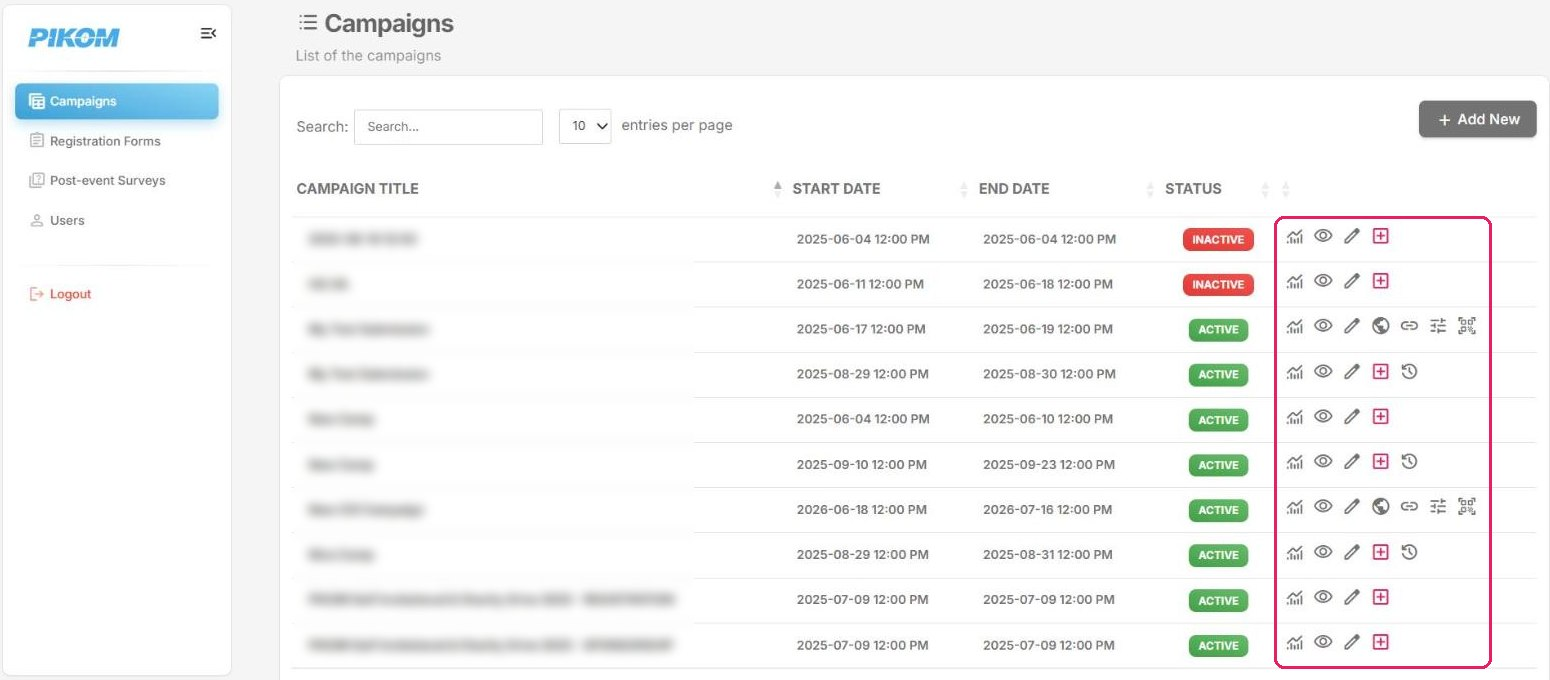
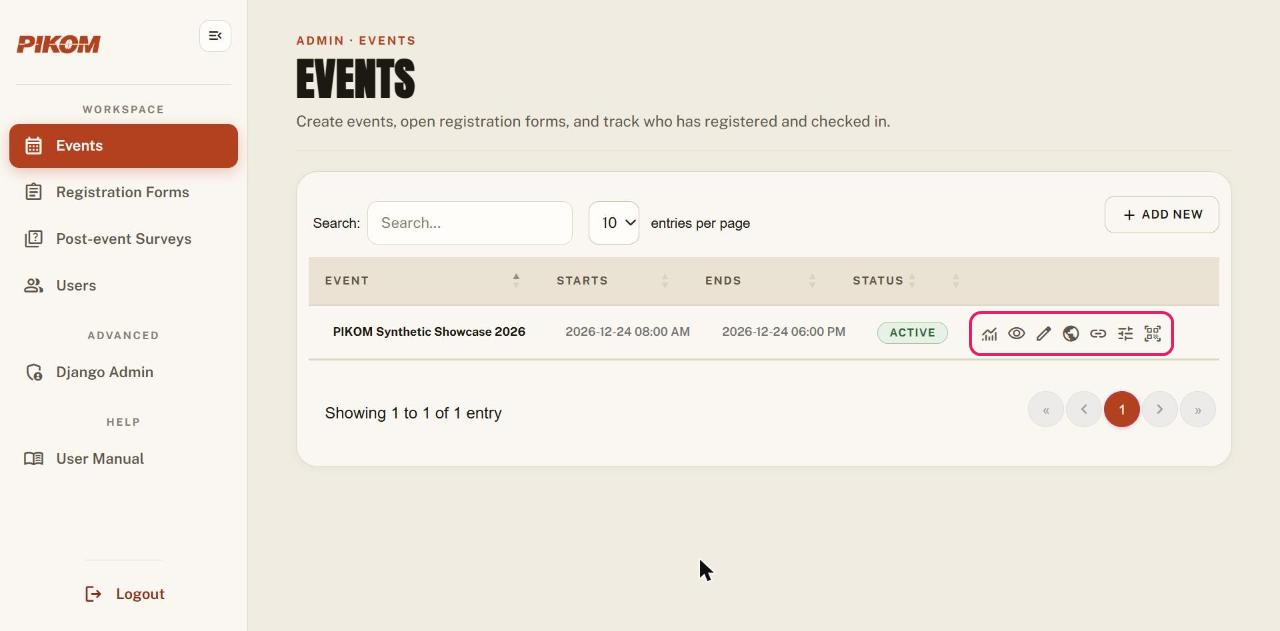
Update user manual sections 4-9 and screenshots for the new admin
Rework the registration form, Form Builder, clone, go-live, checklist
and troubleshooting sections to use "event" wording and match the
current screens (report icon, choice reordering arrows, shared event
details, new public form layout, dashboard shortcuts).

Recapture the manual screenshots from the redesigned admin using the
synthetic showcase data, and drop the outdated team-picker image.

diff --git a/register/templates/register/user_manual.html b/register/templates/register/user_manual.html
@@ -269,10 +269,6 @@
           <strong>Venue and event time</strong> are not in this dialog. Set them in Form Builder under the event
           details (Part C). Until then the dashboard shows <em>Add venue</em> and <em>Add event time</em>.
         </div>
-        <figure class="manual-fig">
-          <img src="{% static 'register/manual/a4_team.jpg' %}" class="border-radius-lg shadow-sm" alt="Choosing the event team">
-          <figcaption>Campaign Team — click the box and choose the users who will run this event.</figcaption>
-        </figure>
 
         <h6 class="manual-step"><span class="step-pill">Step A4</span>Check the dialog, then Save</h6>
         <p>Compare your entries against the example below, then press <strong>Save</strong>. The dialog closes and the
@@ -280,7 +276,7 @@
           field is outlined in red with a message underneath, and nothing is saved until you fix it.</p>
         <figure class="manual-fig">
           <img src="{% static 'register/manual/a5_add_campaign_filled.jpg' %}" class="border-radius-lg shadow-sm" alt="A completed Create event dialog">
-          <figcaption>A completed Create event dialog, ready to save.</figcaption>
+          <figcaption>The bottom of a completed Create event dialog, ready to save.</figcaption>
         </figure>
 
         <h6 class="manual-step"><span class="step-pill">Step A5</span>Know the row icons</h6>
@@ -309,8 +305,8 @@
               <tr><td class="k">Link</td><td><strong>Copy registration link</strong> — copies the public URL to your clipboard.</td></tr>
               <tr><td class="k">Sliders</td><td><strong>Build / edit form</strong> — opens Form Builder (Part C).</td></tr>
               <tr><td class="k">QR scanner</td><td><strong>Check-in scanner</strong> — the on-site scanning page for phones and Sunmi devices.</td></tr>
-              <tr><td class="k">Plus box</td><td>Shown <em>instead</em> of the four form icons when no form exists yet: <strong>“No registration form yet — click to create one”</strong>. It jumps straight to Part B with this campaign pre-selected.</td></tr>
-              <tr><td class="k">Clock</td><td>Legacy entry form, for older campaigns that still use one.</td></tr>
+              <tr><td class="k">Plus box</td><td>Shown <em>instead</em> of the four form icons when no form exists yet: <strong>“No registration form yet — click to create one”</strong>. It jumps straight to Part B with this event pre-selected.</td></tr>
+              <tr><td class="k">Clock</td><td>Legacy entry form, for older events that still use one.</td></tr>
             </tbody>
           </table>
 
@@ -346,15 +342,15 @@
 
         <h6 class="manual-step"><span class="step-pill">Step B1</span>Open Registration Forms</h6>
         <p>Click <strong>Registration Forms</strong> in the left menu — or click the <strong>plus-box</strong> icon on
-          a campaign row, which opens this page with that campaign already selected for you.</p>
+          an event row, which opens this page with that event already selected for you.</p>
         <figure class="manual-fig">
           <img src="{% static 'register/manual/b1_form_list.jpg' %}" class="border-radius-lg shadow-sm" alt="The Registration Forms list">
           <figcaption>The Registration Forms list.</figcaption>
         </figure>
 
         <h6 class="manual-step"><span class="step-pill">Step B2</span>Click + New Registration Form and fill it in</h6>
-        <p>The <strong>Add New Registration Form</strong> dialog opens. Nothing is saved until you press
-          <strong>Save</strong>.</p>
+        <p>Click <strong>+ New Registration Form</strong> at the top right. The <strong>Add New Registration
+          Form</strong> dialog opens. Nothing is saved until you press <strong>Save</strong>.</p>
           <table class="table align-items-center mb-0 manual-table">
             <thead>
               <tr>
@@ -367,7 +363,7 @@
               <tr><td class="k">Public URL (optional)</td><td>The readable part of the public address. Lowercase letters, numbers and hyphens only. Leave it blank and one is generated from the title. It must be unique — if another form already uses it, saving fails with a message telling you so.</td></tr>
               <tr><td class="k">Survey Start Date / Survey End Date</td><td>The window in which the public form accepts entries. Outside it, visitors see the “registration closed” wording.</td></tr>
               <tr><td class="k">Survey Description</td><td>Rich text shown to registrants under the title — venue, closing date, who to contact. The small toolbar handles bold, headings, lists and links.</td></tr>
-              <tr><td class="k">Select Campaign</td><td>The campaign this form belongs to. Pick it here: the event details and email wording in Form Builder depend on it. The list only offers campaigns you are allowed to manage.</td></tr>
+              <tr><td class="k">Select Campaign</td><td>The event this form belongs to. Pick it here: the event details and email wording in Form Builder depend on it. The list only offers events you are allowed to manage.</td></tr>
               <tr><td class="k">Active or Inactive the Survey</td><td>Leave on so the form can be opened.</td></tr>
             </tbody>
           </table>
@@ -426,8 +422,8 @@
               <tr><td class="k">Globe</td><td><strong>Open public registration form</strong> — the live page.</td></tr>
               <tr><td class="k">Link</td><td><strong>Copy public link</strong>.</td></tr>
               <tr><td class="k">QR scanner</td><td><strong>Check-in scanner</strong> for the event day.</td></tr>
-              <tr><td class="k">Clock face</td><td><strong>Consolidated report</strong> of the responses.</td></tr>
-              <tr><td class="k">Copy</td><td><strong>Clone form</strong> — copy its questions into another campaign. The fastest way to run this year’s event off last year’s form.</td></tr>
+              <tr><td class="k">Exclamation mark</td><td><strong>Consolidated report</strong> of the responses.</td></tr>
+              <tr><td class="k">Copy</td><td><strong>Clone form</strong> — copy its questions into another event. The fastest way to run this year’s event off last year’s form.</td></tr>
               <tr><td class="k">Red bin</td><td><strong>Delete form</strong>. Irreversible — check the registration count first.</td></tr>
             </tbody>
           </table>
@@ -457,7 +453,7 @@
           of the public form as well.</p>
           <table class="table align-items-center mb-0 manual-table">
             <tbody>
-              <tr><td class="k">Date</td><td>Read-only. Taken from the campaign’s end date. To change it, edit the campaign.</td></tr>
+              <tr><td class="k">Date</td><td>Read-only. Taken from the event’s end date. To change it, edit the event (Part A).</td></tr>
               <tr><td class="k">Time</td><td>Free text, e.g. <code>10.00 am – 1.00 pm</code>.</td></tr>
               <tr><td class="k">Venue</td><td>Free text, multiple lines allowed.</td></tr>
               <tr><td class="k">Dress code</td><td>Free text.</td></tr>
@@ -466,14 +462,16 @@
             </tbody>
           </table>
         <p class="mt-2">Press <strong>Save event details</strong> when done — this block has its own save button.
-          Event details apply to the whole campaign, so every form on that campaign shares them.</p>
+          Event details apply to the whole event, so every form on that event shares them. The time and venue you
+          enter here are also what the event dashboard and the attendee app show.</p>
         <figure class="manual-fig">
           <img src="{% static 'register/manual/b5_event_details.jpg' %}" class="border-radius-lg shadow-sm" alt="Event details block">
           <figcaption>Event details, with the additional info rows at the bottom.</figcaption>
         </figure>
 
         <h6 class="manual-sub">Email content</h6>
-        <p>Four tabs, one per message: <strong>Thank-you</strong> (sent on submission),
+        <p>This block is also shared by every form on the event. Four tabs, one per message:
+          <strong>Thank-you</strong> (sent on submission),
           <strong>QR confirmation</strong>, <strong>Attendance reminder</strong> and
           <strong>Registration closed</strong>. For each you can write a subject line and the body.</p>
         <ul>
@@ -486,12 +484,13 @@
         </ul>
         <figure class="manual-fig">
           <img src="{% static 'register/manual/b6_email.jpg' %}" class="border-radius-lg shadow-sm" alt="Email content block">
-          <figcaption>The Thank-you tab: subject line, placeholder buttons, body, and the two switches.</figcaption>
+          <figcaption>The Thank-you tab: subject line, placeholder buttons and the start of the body. The two switches, Sign-off and <strong>Save email content</strong> sit below the body.</figcaption>
         </figure>
 
         <h6 class="manual-sub">Form fields</h6>
-        <p>The question list. Each row shows its number, its type, a <em>Required</em> tag, a <em>List col</em> tag
-          when the answer is shown as a column in the registrations list, and the question text.</p>
+        <p>The question list. Each row shows its number, its type (identity fields show <em>Identity</em> and a
+          padlock), a <em>Required</em> tag, a <em>List col</em> tag when the answer is shown as a column in the
+          registrations list, and the question text.</p>
         <figure class="manual-fig">
           <img src="{% static 'register/manual/b8_fields.jpg' %}" class="border-radius-lg shadow-sm" alt="Form Fields block">
           <figcaption>The Form Fields block. Identity fields carry a padlock.</figcaption>
@@ -506,7 +505,7 @@
         <p>Click <strong>+ Add Question</strong> at the top right of the Form Fields block.</p>
         <figure class="manual-fig">
           <img src="{% static 'register/manual/b9_question_top.jpg' %}" class="border-radius-lg shadow-sm" alt="The Add Question dialog">
-          <figcaption>The Add Question dialog, set to Single choice with three options.</figcaption>
+          <figcaption>The top of the Add Question dialog, set to Single choice.</figcaption>
         </figure>
           <table class="table align-items-center mb-0 manual-table">
             <thead>
@@ -522,7 +521,7 @@
               <tr><td class="k">Required</td><td>On = the registrant cannot submit without answering.</td></tr>
               <tr><td class="k">Show in list</td><td>On = the answer becomes a column in the registrations list. Use it for the handful of answers your team sorts and filters on, not for everything.</td></tr>
               <tr><td class="k">Column header for the registrations list</td><td>Short label for that column, up to 60 characters. Blank = the question text, truncated. Only used when <em>Show in list</em> is on.</td></tr>
-              <tr><td class="k">Choices</td><td>Shown for Dropdown, Single choice and Multiple choice. One row per option; <strong>+ Add choice</strong> adds more, the drag handle reorders, the red button removes. <em>Add follow-up text</em> attaches a free-text box to a specific option — useful for “Other, please specify”.</td></tr>
+              <tr><td class="k">Choices</td><td>Shown for Dropdown, Single choice and Multiple choice. One row per option; <strong>+ Add choice</strong> adds more, the drag handle or the up and down arrows reorder, the red <strong>×</strong> removes. <em>Add follow-up text</em> attaches a free-text box to a specific option — useful for “Other, please specify”.</td></tr>
               <tr><td class="k">Include an “Other” free-text input</td><td>Adds a catch-all “Other” option with its own text box.</td></tr>
               <tr><td class="k">Max selections</td><td>Multiple choice only. Caps how many boxes a registrant may tick; blank = no limit.</td></tr>
             </tbody>
@@ -531,7 +530,7 @@
           into position. <strong>Cancel</strong> discards it.</p>
         <figure class="manual-fig">
           <img src="{% static 'register/manual/b10_question_bottom.jpg' %}" class="border-radius-lg shadow-sm" alt="The bottom of the Add Question dialog">
-          <figcaption>The bottom of the Add Question dialog: choices, the “Other” option and Save Question.</figcaption>
+          <figcaption>The bottom of the Add Question dialog: three choices, the “Other” option and Save Question.</figcaption>
         </figure>
 
       </div>
@@ -542,7 +541,7 @@
       <div class="card-header pb-2"><h6 class="mb-0">6. Clone a form for a repeat event</h6></div>
       <div class="card-body pt-2">
         <p>When you run the same event again, don’t rebuild the form. Clone last year’s and point the copy at this
-          year’s campaign — every question comes across with its type, choices, required flags and
+          year’s event — every question comes across with its type, choices, required flags and
           <em>Show in list</em> settings. Registrations do not.</p>
 
         <h6 class="manual-step"><span class="step-pill">Step 1</span>Click the copy icon on the form’s row</h6>
@@ -553,7 +552,7 @@
           <figcaption>The <strong>Clone form</strong> icon, outlined here in pink.</figcaption>
         </figure>
 
-        <h6 class="manual-step"><span class="step-pill">Step 2</span>Name the copy and choose its campaign</h6>
+        <h6 class="manual-step"><span class="step-pill">Step 2</span>Name the copy and choose its event</h6>
         <figure class="manual-fig">
           <img src="{% static 'register/manual/c2_clone_modal.jpg' %}" class="border-radius-lg shadow-sm img-natural" alt="The Clone Form dialog">
           <figcaption>The Clone Form dialog. Both fields are required.</figcaption>
@@ -567,7 +566,7 @@
             </thead>
             <tbody>
               <tr><td class="k">New Form Title</td><td>Arrives pre-filled as <em>Copy of …</em>. Replace it with the real name for this year’s event — the copy’s public URL is generated from this title, so a clean title gives a clean link.</td></tr>
-              <tr><td class="k">Assign to Campaign</td><td>The campaign the copy belongs to — normally the new campaign you created for this year. Only campaigns you are allowed to manage are listed.</td></tr>
+              <tr><td class="k">Assign to Campaign</td><td>The event the copy belongs to — normally the new event you created for this year. Only events you are allowed to manage are listed.</td></tr>
             </tbody>
           </table>
         <p class="mt-2">Press <strong>Clone</strong>. The list reloads with the new form on it, ready to edit.
@@ -579,8 +578,8 @@
               year’s window. Click the pencil on the new row and set the new one.</li>
           <li><strong>The public URL.</strong> It is generated from the new title. Open Form Builder and check the
               link under <em>Shareable link</em> before you share it.</li>
-          <li><strong>Event details and email wording.</strong> These belong to the <em>campaign</em>, not the form,
-              so the copy shows whatever the new campaign holds — usually empty. Fill them in from Form Builder
+          <li><strong>Event details and email wording.</strong> These belong to the <em>event</em>, not the form,
+              so the copy shows whatever the new event holds — usually empty. Fill them in from Form Builder
               (Part C).</li>
         </ol>
 
@@ -601,8 +600,8 @@
                   on one form never touches the other.
                 </td>
                 <td>
-                  Registrations and their answers · QR and check-in state · the campaign’s event details and email
-                  wording, which live on the campaign rather than the form.
+                  Registrations and their answers · QR and check-in state · the event details and email
+                  wording, which live on the event rather than the form.
                 </td>
               </tr>
             </tbody>
@@ -626,26 +625,26 @@
           <li>Share the link from <strong>Copy</strong> — not a URL you typed by hand.</li>
         </ol>
         <figure class="manual-fig">
-          <img src="{% static 'register/manual/b11_public_top.jpg' %}" class="border-radius-lg shadow-sm" alt="The public form banner">
-          <figcaption>The public form opens with the banner image.</figcaption>
+          <img src="{% static 'register/manual/b11_public_top.jpg' %}" class="border-radius-lg shadow-sm" alt="The top of the public registration form">
+          <figcaption>The public form: the title, description and event details on the left, the questions on the right. When a banner is uploaded it appears at the top of the page.</figcaption>
         </figure>
         <figure class="manual-fig">
           <img src="{% static 'register/manual/b12_public_fields.jpg' %}" class="border-radius-lg shadow-sm" alt="The public form fields">
-          <figcaption>The fields as a registrant sees them — a red asterisk marks the required ones.</figcaption>
+          <figcaption>The fields as a registrant sees them — an asterisk (<strong>*</strong>) marks the required ones.</figcaption>
         </figure>
         <figure class="manual-fig">
           <img src="{% static 'register/manual/b13_public_submit.jpg' %}" class="border-radius-lg shadow-sm" alt="The Submit Registration button">
-          <figcaption>The end of the public form, with Submit Registration.</figcaption>
+          <figcaption>The end of the public form, with the <strong>Submit Registration</strong> button.</figcaption>
         </figure>
 
         <h6 class="manual-sub">Where registrations arrive</h6>
-        <p>Campaigns → <strong>eye</strong> icon (or Registration Forms → consolidated report). Each row is one
+        <p>Events → <strong>eye</strong> icon, or <strong>View attendees</strong> on the event dashboard. Each row is one
           registrant, with the registration number, approval status, check-in and QR state. Header counters summarise
           Total, Pending, Approved, Rejected, QR sent, Reminder and Checked in. From the toolbar you can register a
           walk-in, edit an entry, change status or participant type, and send QR codes or reminders.</p>
         <figure class="manual-fig">
           <img src="{% static 'register/manual/b14_reg_list.jpg' %}" class="border-radius-lg shadow-sm" alt="The registrations list">
-          <figcaption>The registrations list. Participant names and contact details are blurred in this manual only.</figcaption>
+          <figcaption>The registrations list, with the counters at the top right and the toolbar above the table.</figcaption>
         </figure>
       </div>
     </div>
@@ -655,14 +654,14 @@
       <div class="card-header pb-2"><h6 class="mb-0">8. Pre-launch checklist</h6></div>
       <div class="card-body pt-2">
         <ul>
-          <li>Campaign end date is the real event date — the emails read it from there.</li>
+          <li>The event’s end date is the real event date — the emails read it from there.</li>
           <li>‘Reply To’ email is a mailbox someone actually watches.</li>
-          <li>Everyone who needs access is on the Campaign Team.</li>
-          <li>The form is attached to the right campaign, and its start/end window is correct.</li>
-          <li>Banner uploaded; event details saved; the four emails read the way you want.</li>
+          <li>Everyone who needs access is on the event’s Campaign Team.</li>
+          <li>The form is attached to the right event, and its start/end window is correct.</li>
+          <li>Banner uploaded; event details (time, venue) saved; the four emails read the way you want.</li>
           <li>Required flags are right, and the answers your team works from have <em>Show in list</em> on.</li>
           <li>One test registration submitted, checked and removed.</li>
-          <li>Campaign is Active and the form is Active.</li>
+          <li>The event is active and the form is Active.</li>
         </ul>
       </div>
     </div>
@@ -680,14 +679,16 @@
             </thead>
             <tbody>
               <tr><td class="k">“This URL is already used by another form.”</td><td>The Public URL you typed is taken. Choose another, or leave it blank to auto-generate.</td></tr>
-              <tr><td class="k">Permission error opening Form Builder</td><td>You are not a superuser and not on that campaign’s team. Ask to be added.</td></tr>
-              <tr><td class="k">The campaign does not appear in Select Campaign</td><td>Same reason — the dropdown only lists campaigns you may manage.</td></tr>
-              <tr><td class="k">Wrong date in the emails</td><td>The date comes from the campaign’s <em>end</em> date. Edit the campaign, not the form.</td></tr>
+              <tr><td class="k">Permission error opening Form Builder</td><td>You are not a superuser and not on that event’s Campaign Team. Ask to be added.</td></tr>
+              <tr><td class="k">The event does not appear in Select Campaign</td><td>Same reason — the dropdown only lists events you may manage.</td></tr>
+              <tr><td class="k">No + Add New button or Edit pencil on Events</td><td>Your account is not allowed to create or change events. Ask a superuser.</td></tr>
+              <tr><td class="k">Wrong date in the emails</td><td>The date comes from the event’s <em>end</em> date. Edit the event, not the form.</td></tr>
+              <tr><td class="k">Dashboard shows “Add venue” or “Add event time”</td><td>They are not set yet. Fill them in under Event details in Form Builder and press <strong>Save event details</strong>.</td></tr>
               <tr><td class="k">Event details missing from the public page</td><td><em>Show event details on this registration form</em> is off, or <strong>Save event details</strong> was not pressed.</td></tr>
-              <tr><td class="k">Registrants see “registration closed”</td><td>Today is outside the form’s start/end window, or the form or campaign is inactive.</td></tr>
+              <tr><td class="k">Registrants see “registration closed”</td><td>Today is outside the form’s start/end window, or the form or event is inactive.</td></tr>
               <tr><td class="k">Theme colour ignored</td><td>The value was not a valid 6-digit hex code, so the default was used.</td></tr>
               <tr><td class="k">An identity field has no delete button</td><td>By design. Make it optional instead.</td></tr>
-              <tr><td class="k">“Permission denied” when cloning</td><td>You need rights over both ends: the form you are copying <em>and</em> the campaign you are copying it into.</td></tr>
+              <tr><td class="k">“Permission denied” when cloning</td><td>You need rights over both ends: the form you are copying <em>and</em> the event you are copying it into.</td></tr>
               <tr><td class="k">A cloned form shows last year’s dates</td><td>Expected — dates are copied with the questions. Edit the new form and set its own window.</td></tr>
             </tbody>
           </table>
@@ -695,9 +696,9 @@
     </div>
 
     <p class="text-xs text-secondary px-1 pb-3">
-      Screenshots were captured from this system. The campaign and form shown in the “Add New” dialogs were filled in
-      for illustration only and never saved, so that sample data does not exist in the database. Campaign titles, form
-      titles, participant names and contact details are blurred in this manual.
+      Screenshots were captured from this system using synthetic sample data (the “PIKOM Synthetic Showcase 2026”
+      event); every name and contact detail shown is made up. The values in the Create event, Add New Registration
+      Form and Add Question dialogs were typed in for illustration only and never saved.
     </p>
 
     </div><!-- /.manual-col -->
